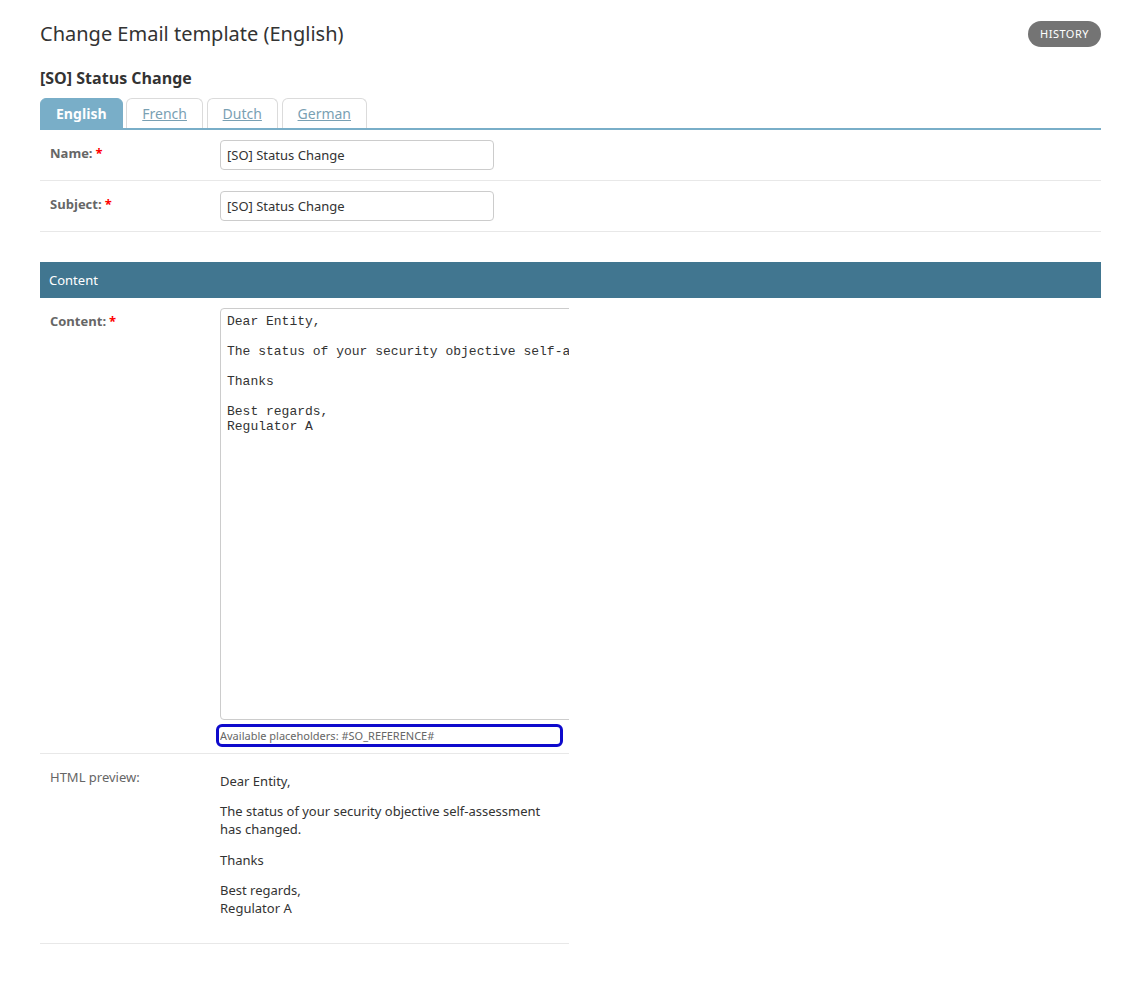
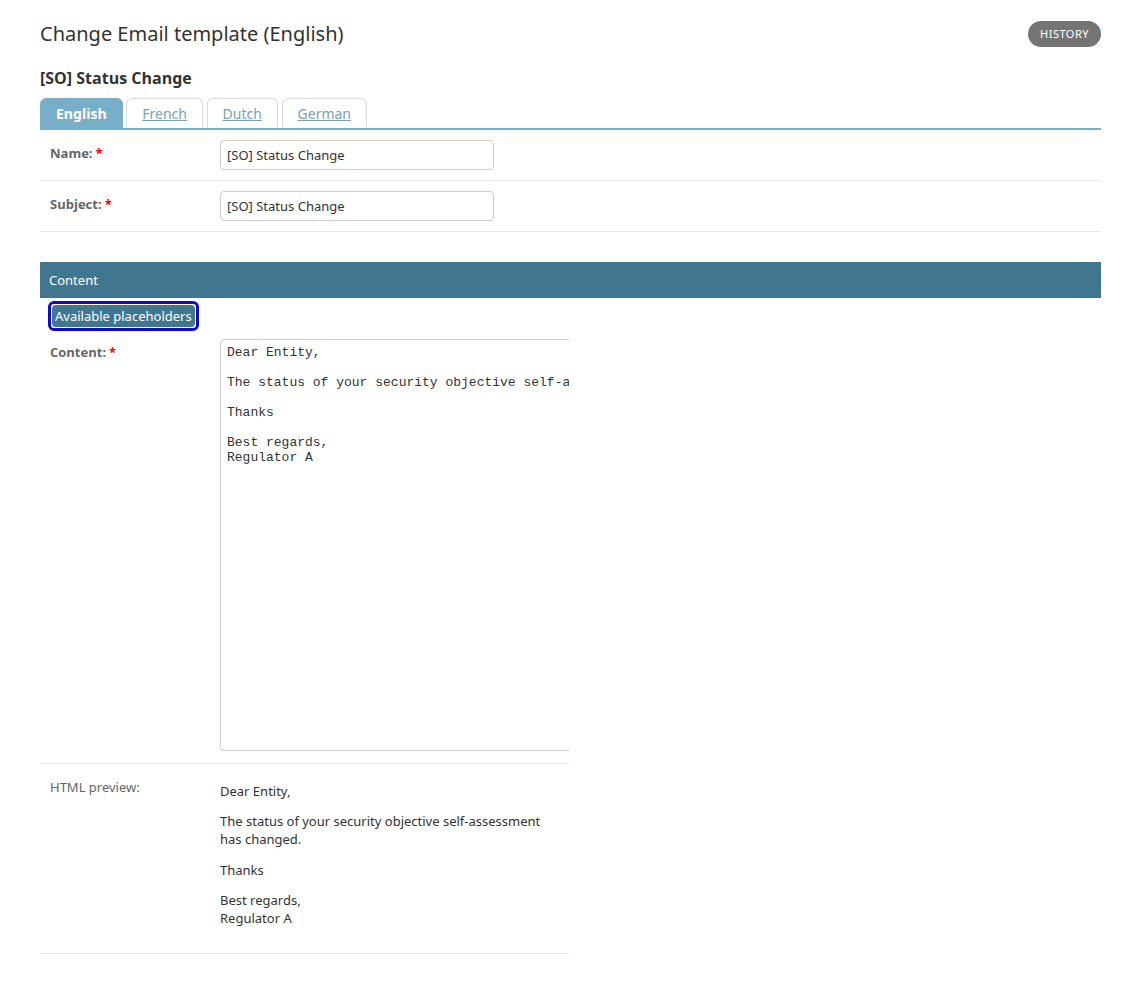
[Docs][SO] Updated email template documentation with additional placeholders and modified screenshot annotations, comment #912

diff --git a/docs/administration/regulator-admin/security-objectives.rst b/docs/administration/regulator-admin/security-objectives.rst
@@ -56,10 +56,29 @@ A template has:
   the **HTML preview** below it shows how it is formatted, once saved.
 
 .. figure:: /_static/images/administration/regulator-admin/security-objectives-01.png
-   :alt: Change Email template form with its name, subject, content, available placeholder and HTML preview
+   :alt: Change Email template form with its name, subject, content, the Available placeholders button and HTML preview
    :target: ../../_static/images/administration/regulator-admin/security-objectives-01.png
 
-The only placeholder is ``#SO_REFERENCE#``, replaced by the identifier of the declaration, in the subject or the content.
+Click **Available placeholders** to list the placeholders you can type in the subject or the content.
+Each one is replaced by its value when the email is sent.
+
+.. list-table::
+   :header-rows: 1
+   :widths: 35 65
+
+   * - Placeholder
+     - Replaced by
+   * - ``#PUBLIC_URL#``
+     - The address of the platform.
+   * - ``#SO_REFERENCE#``
+     - The reference of the declaration.
+   * - ``#SO_STATUS#``
+     - The status of the declaration, as the operator sees it: **Under review** once submitted and while you review it,
+       then **Passed** or **Revision required** once you send the review.
+   * - ``#SO_REVIEW_COMMENT_ADDED#``
+     - "New comment added" when the review you sent carries a comment, otherwise nothing.
+       The comment itself is never included, so it stays in the platform.
+
 As for incident emails, one email is sent in all languages: the content in the default language of the platform comes first,
 followed by each translation that differs from it.
 
